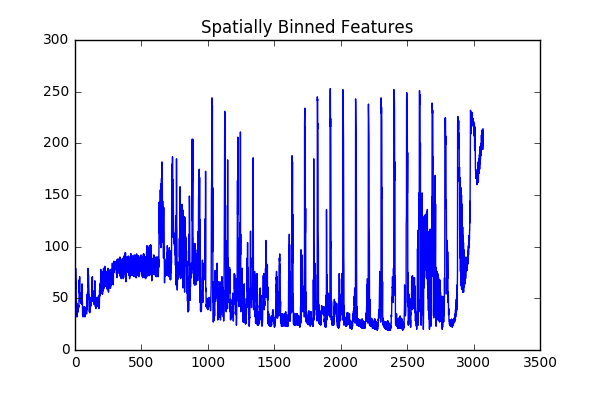
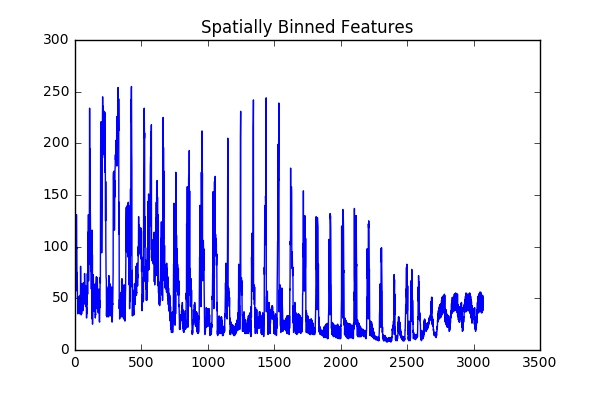
README 작성

diff --git a/README.md b/README.md
@@ -10,86 +10,62 @@ The goals / steps of this project are the following:
 * Estimate a bounding box for vehicles detected.
 
 [//]: # (Image References)
-[image1]: ./examples/car_not_car.png
-[image2]: ./examples/HOG_example.jpg
-[image3]: ./examples/sliding_windows.jpg
-[image4]: ./examples/sliding_window.jpg
-[image5]: ./examples/bboxes_and_heat.png
-[image6]: ./examples/labels_map.png
-[image7]: ./examples/output_bboxes.png
-[video1]: ./project_video.mp4
+[image1]: ./output_images/data_exploration.png
+[image2]: ./output_images/color_hist.png
+[image3]: ./output_images/bin_spatial.png
+[image4]: ./output_images/hog_features.png
+[image5]: ./output_images/extract_feature.png
 
 ## Data Exploration
 
-###Histogram of Oriented Gradients (HOG)
+Let's take a look at the data set before extracting features and training the classifier. These datasets are comprised of images taken from the GTI vehicle image database, the KITTI vision benchmark suite, and examples extracted from the project video itself. You can download the project dataset for [vehicles](https://s3.amazonaws.com/udacity-sdc/Vehicle_Tracking/vehicles.zip) and [non-vehicles](https://s3.amazonaws.com/udacity-sdc/Vehicle_Tracking/non-vehicles.zip).
 
-####1. Explain how (and identify where in your code) you extracted HOG features from the training images.
+The downloaded data consists of 8792 car images and 8968 non-car images. The shape of the image is (64, 64, 3), and the data type of the image is float32. I have written the `data_look()` function to extract this information. Shown below is an example of each class (vehicle, non-vehicle) of the data set.
 
-The code for this step is contained in the first code cell of the IPython notebook (or in lines # through # of the file called `some_file.py`).  
+![Data Exploration][image1]
 
-I started by reading in all the `vehicle` and `non-vehicle` images.  Here is an example of one of each of the `vehicle` and `non-vehicle` classes:
+## Extract Features
+### Histograms of Color
+In image processing, a color histogram is a representation of the distribution of colors in an image. A histogram of an image is produced first by discretization of the colors in the image into a number of bins, and counting the number of image pixels in each bin.
 
-![alt text][image1]
+In the `color_hist()` function, I split the image into three channels, and then I got each histogram. `np.histogram()` returns a tuple of two arrays. `rhist[0]` contains the counts in each of the bins and `rhist [1]` contains the bin edges. I can compute the bin centers from the bin edges.
 
-I then explored different color spaces and different `skimage.hog()` parameters (`orientations`, `pixels_per_cell`, and `cells_per_block`).  I grabbed random images from each of the two classes and displayed them to get a feel for what the `skimage.hog()` output looks like.
+Which gives us this result:
 
-Here is an example using the `YCrCb` color space and HOG parameters of `orientations=8`, `pixels_per_cell=(8, 8)` and `cells_per_block=(2, 2)`:
+![Histograms][image2]
 
+### Spatial Binning of Color
+Raw pixel values are quite useful to include in feature vector in searching for cars. I could perform spatial binning on an image and still retain enough information to help in finding vehicles. I wrote a `bin_spatial()` function to convert test image into a feature vector.
 
-![alt text][image2]
+Which gives us this result:
 
-####2. Explain how you settled on your final choice of HOG parameters.
+![Binned color features][image3]
 
-I tried various combinations of parameters and...
+### HOG Features
+The histogram of oriented gradients(HOG) is a feature descriptor used in computer vision and image processing for the purpose of object detection. The technique counts occurrences of gradient orientation in localized portions of an image.
 
-####3. Describe how (and identify where in your code) you trained a classifier using your selected HOG features (and color features if you used them).
+The `scikit-image` package has a built in function to extract Histogram of Oriented Gradient features. Using this built in function, I defined a `get_hog_features()` function to return HOG features and visualization. The main parameters of this function are `orient`, `pix_per_cell`, and `cell_per_block`.
 
-I trained a linear SVM using...
+Car images of grayscale for testing and its corresponding HOG visulization, they look like this:
 
-###Sliding Window Search
+![HOG Vis][image4]
 
-####1. Describe how (and identify where in your code) you implemented a sliding window search.  How did you decide what scales to search and how much to overlap windows?
+### Combine and Normalize Features
+I have written a function that extracts a feature vector from an image by combining the three techniques shown above. 
+`extract_features()` function takes in a list of image filenames, reads them one by one, then applies a color conversion and uses `bin_spatial()` and `color_hist()` and `get_hog_features()` to generate feature vectors.
 
-I decided to search random window positions at random scales all over the image and came up with this (ok just kidding I didn't actually ;):
+I almost ready to train a classifier, but I need to normalize my data. `sklearn` package provides me with the `StandardScaler()` method to accomplish this task.
 
-![alt text][image3]
+The result of extracting the feature vector from the image and normalizing it is as follows:
 
-####2. Show some examples of test images to demonstrate how your pipeline is working.  What did you do to optimize the performance of your classifier?
+![Extract Feature][image5]
 
-Ultimately I searched on two scales using YCrCb 3-channel HOG features plus spatially binned color and histograms of color in the feature vector, which provided a nice result.  Here are some example images:
+## Train a classifier
 
-![alt text][image4]
----
+## Hog Sub-sampling Window Search
 
-### Video Implementation
+## False Positive
 
-####1. Provide a link to your final video output.  Your pipeline should perform reasonably well on the entire project video (somewhat wobbly or unstable bounding boxes are ok as long as you are identifying the vehicles most of the time with minimal false positives.)
-Here's a [link to my video result](./project_video.mp4)
+## Pipeline
 
-
-####2. Describe how (and identify where in your code) you implemented some kind of filter for false positives and some method for combining overlapping bounding boxes.
-
-I recorded the positions of positive detections in each frame of the video.  From the positive detections I created a heatmap and then thresholded that map to identify vehicle positions.  I then used `scipy.ndimage.measurements.label()` to identify individual blobs in the heatmap.  I then assumed each blob corresponded to a vehicle.  I constructed bounding boxes to cover the area of each blob detected.  
-
-Here's an example result showing the heatmap from a series of frames of video, the result of `scipy.ndimage.measurements.label()` and the bounding boxes then overlaid on the last frame of video:
-
-### Here are six frames and their corresponding heatmaps:
-
-![alt text][image5]
-
-### Here is the output of `scipy.ndimage.measurements.label()` on the integrated heatmap from all six frames:
-![alt text][image6]
-
-### Here the resulting bounding boxes are drawn onto the last frame in the series:
-![alt text][image7]
-
-
-
----
-
-###Discussion
-
-####1. Briefly discuss any problems / issues you faced in your implementation of this project.  Where will your pipeline likely fail?  What could you do to make it more robust?
-
-Here I'll talk about the approach I took, what techniques I used, what worked and why, where the pipeline might fail and how I might improve it if I were going to pursue this project further.  
-
+## Discussion
